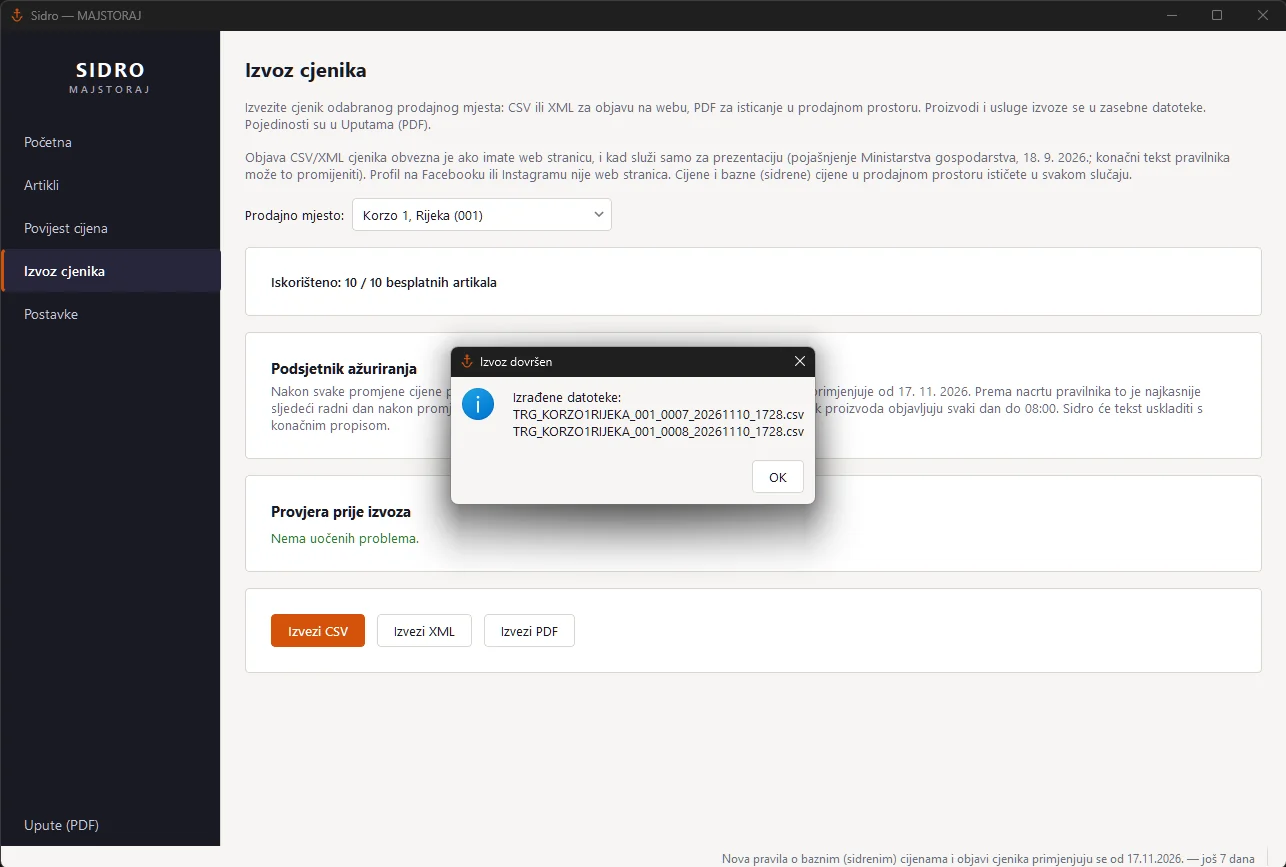
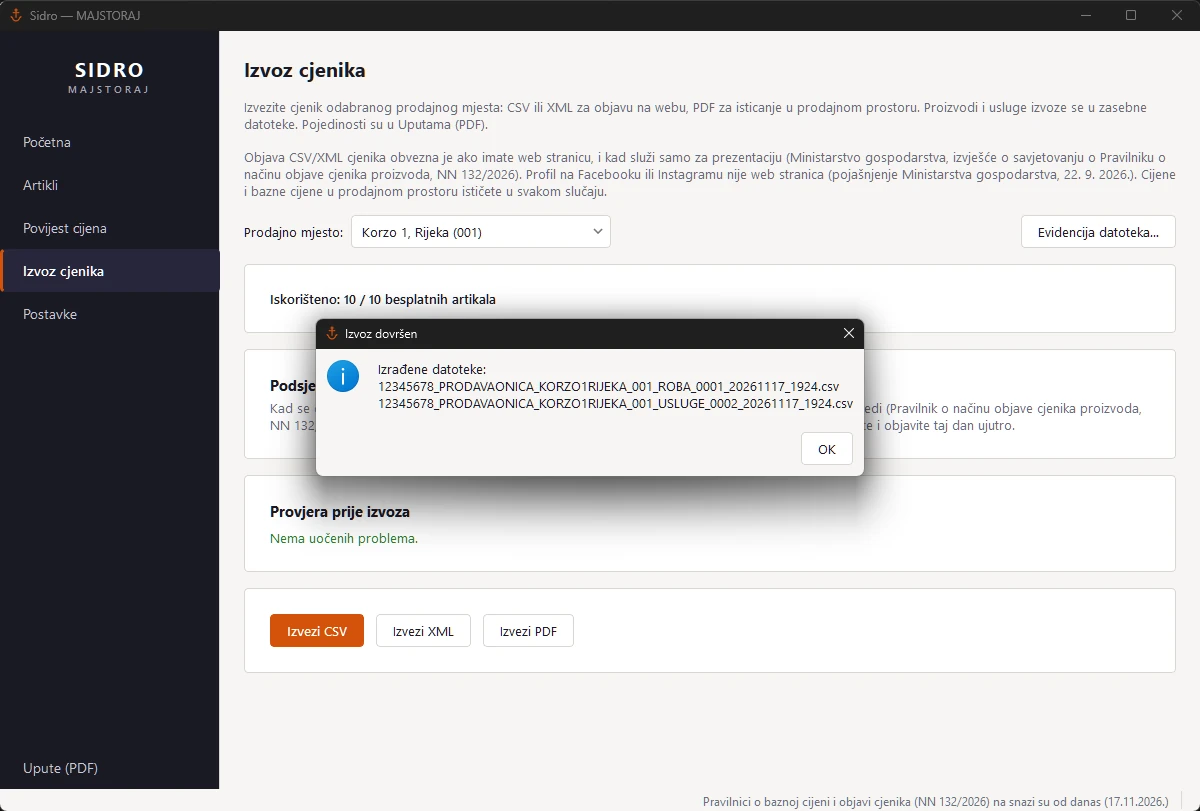
Sidro 0.3.0: snimke aplikacije iz 0.3
Artikli, Povijest cijena, Izvoz cjenika i PDF cjenik snimljeni u 0.3.0
(Goran, 17. 11.); dimenzije i opis snimke Povijesti usklađeni.

Claude-Session: https://claude.ai/code/session_012aHq4tC6ykfAFkRAbFaGYV

diff --git a/docs/stranice/sidro.html b/docs/stranice/sidro.html
@@ -360,7 +360,7 @@
 
   <figure class="uvod-slika">
     <a class="izlog" href="#izgled" aria-label="Pogledajte snimke aplikacije">
-      <span class="prozor"><img src="slike/sidro-artikli.webp" width="1287" height="869" decoding="async" fetchpriority="high"
+      <span class="prozor"><img src="slike/sidro-artikli.webp" width="1202" height="812" decoding="async" fetchpriority="high"
            alt="Sidro, stranica Artikli: popis proizvoda i usluga s vrstom, jedinicom mjere, šifrom, markom, barkodom i statusom"></span>
     </a>
     <figcaption>Snimka stvarne aplikacije s izmišljenim podacima jedne male trgovine.</figcaption>
@@ -493,7 +493,7 @@
     </div>
     <figure class="snimka" id="snimka-artikli">
       <a class="pozornica" href="slike/sidro-artikli.webp" target="_blank" rel="noopener">
-        <span class="prozor"><img src="slike/sidro-artikli.webp" width="1287" height="869" loading="lazy" decoding="async"
+        <span class="prozor"><img src="slike/sidro-artikli.webp" width="1202" height="812" loading="lazy" decoding="async"
              alt="Sidro, stranica Artikli: popis proizvoda i usluga s vrstom, jedinicom mjere, šifrom, markom, barkodom i statusom"></span>
         <span class="povecaj"><svg viewBox="0 0 16 16" aria-hidden="true" focusable="false"><circle cx="6.75" cy="6.75" r="4.75" fill="none" stroke="currentColor" stroke-width="1.6"/><path d="M10.25 10.25 14 14M6.75 4.75v4M4.75 6.75h4" fill="none" stroke="currentColor" stroke-width="1.6" stroke-linecap="round"/></svg><span class="povecaj-tekst">Povećaj</span></span>
       </a>
@@ -501,15 +501,15 @@
     </figure>
     <figure class="snimka" id="snimka-povijest">
       <a class="pozornica" href="slike/sidro-povijest.webp" target="_blank" rel="noopener">
-        <span class="prozor"><img src="slike/sidro-povijest.webp" width="1287" height="869" loading="lazy" decoding="async"
-             alt="Sidro, stranica Povijest cijena: sidrena i maloprodajna cijena po artiklu, dostupnost i povijest promjena za odabrani artikl"></span>
+        <span class="prozor"><img src="slike/sidro-povijest.webp" width="1202" height="812" loading="lazy" decoding="async"
+             alt="Sidro, stranica Povijest cijena: bazna cijena s referentnim datumom i maloprodajna cijena po artiklu te povijest promjena za odabrani artikl"></span>
         <span class="povecaj"><svg viewBox="0 0 16 16" aria-hidden="true" focusable="false"><circle cx="6.75" cy="6.75" r="4.75" fill="none" stroke="currentColor" stroke-width="1.6"/><path d="M10.25 10.25 14 14M6.75 4.75v4M4.75 6.75h4" fill="none" stroke="currentColor" stroke-width="1.6" stroke-linecap="round"/></svg><span class="povecaj-tekst">Povećaj</span></span>
       </a>
       <figcaption><span class="snimka-ime">Povijest cijena</span>Svaka promjena ostaje zapisana, s datumom od kad vrijedi.</figcaption>
     </figure>
     <figure class="snimka" id="snimka-izvoz">
       <a class="pozornica" href="slike/sidro-izvoz.webp" target="_blank" rel="noopener">
-        <span class="prozor"><img src="slike/sidro-izvoz.webp" width="1286" height="867" loading="lazy" decoding="async"
+        <span class="prozor"><img src="slike/sidro-izvoz.webp" width="1200" height="811" loading="lazy" decoding="async"
              alt="Sidro, stranica Izvoz cjenika: provjera prije izvoza i poruka s nazivima izrađenih CSV datoteka po propisanom obliku"></span>
         <span class="povecaj"><svg viewBox="0 0 16 16" aria-hidden="true" focusable="false"><circle cx="6.75" cy="6.75" r="4.75" fill="none" stroke="currentColor" stroke-width="1.6"/><path d="M10.25 10.25 14 14M6.75 4.75v4M4.75 6.75h4" fill="none" stroke="currentColor" stroke-width="1.6" stroke-linecap="round"/></svg><span class="povecaj-tekst">Povećaj</span></span>
       </a>
@@ -519,7 +519,7 @@
       <a class="pozornica" href="slike/sidro-cjenik.webp" target="_blank" rel="noopener">
         <span class="papir-hrpa">
           <span class="papir-ispod" aria-hidden="true"></span>
-          <span class="papir"><img src="slike/sidro-cjenik.webp" width="1033" height="577" loading="lazy" decoding="async"
+          <span class="papir"><img src="slike/sidro-cjenik.webp" width="1020" height="710" loading="lazy" decoding="async"
                alt="PDF cjenik proizvoda iz Sidra 0.3: cijena za jedinicu mjere, maloprodajna cijena, poseban oblik prodaje i bazna cijena s datumom 2. 5. 2025. za hranu i toaletne potrepštine"></span>
         </span>
         <span class="povecaj"><svg viewBox="0 0 16 16" aria-hidden="true" focusable="false"><circle cx="6.75" cy="6.75" r="4.75" fill="none" stroke="currentColor" stroke-width="1.6"/><path d="M10.25 10.25 14 14M6.75 4.75v4M4.75 6.75h4" fill="none" stroke="currentColor" stroke-width="1.6" stroke-linecap="round"/></svg><span class="povecaj-tekst">Povećaj</span></span>
